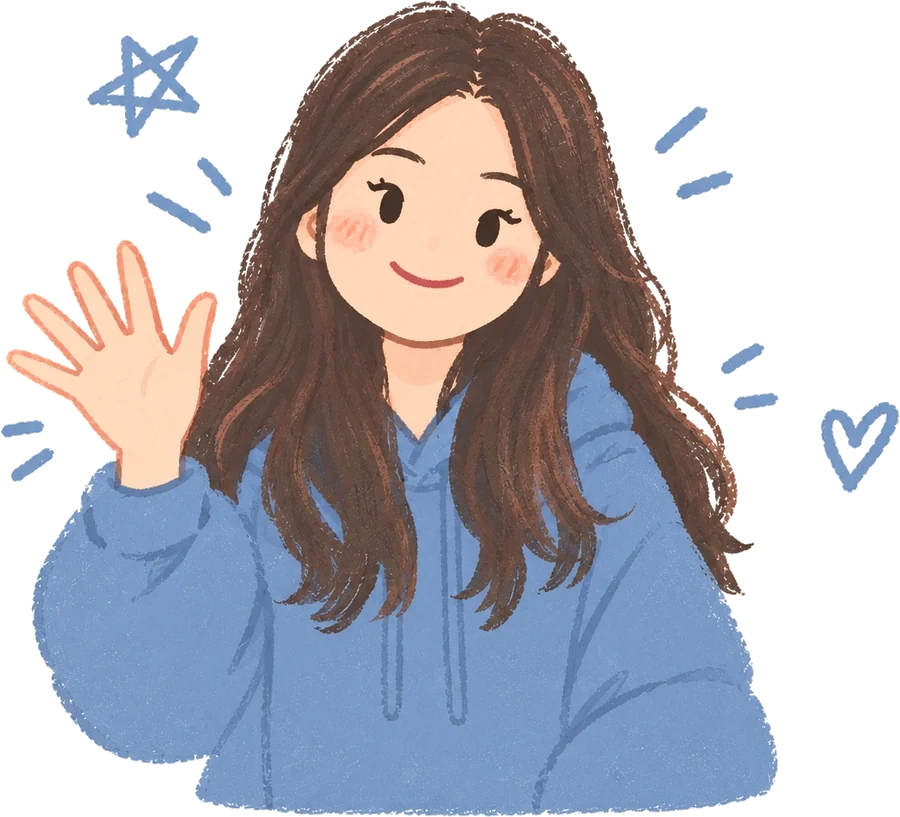
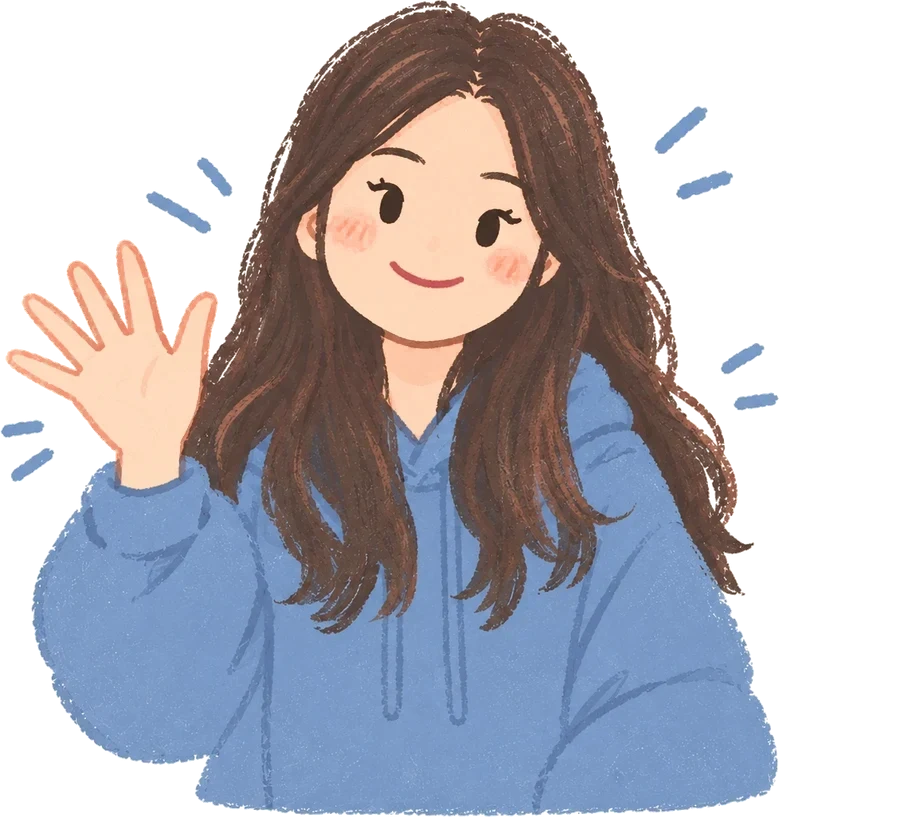
Character: erase the drawn star and heart doodles (visitors add their own stamps)

Changed region(s): [[0.0933, 0.0306, 0.2178, 0.1836], [0.9022, 0.4896, 1.0, 0.612]]

diff --git a/src/components/CharacterIllustration.tsx b/src/components/CharacterIllustration.tsx
@@ -1,6 +1,7 @@
 // Sujin's illustrated character (provided artwork, background removed with
-// scripts/prepare-character.mjs). To swap the art, replace
-// design-exports/character-source.webp and re-run that script.
+// scripts/prepare-character.mjs, and the drawn star and heart erased with
+// scripts/erase-character-doodles.mjs). To swap the art, replace
+// design-exports/character-source.webp and re-run those scripts.
 
 type Props = {
   className?: string
